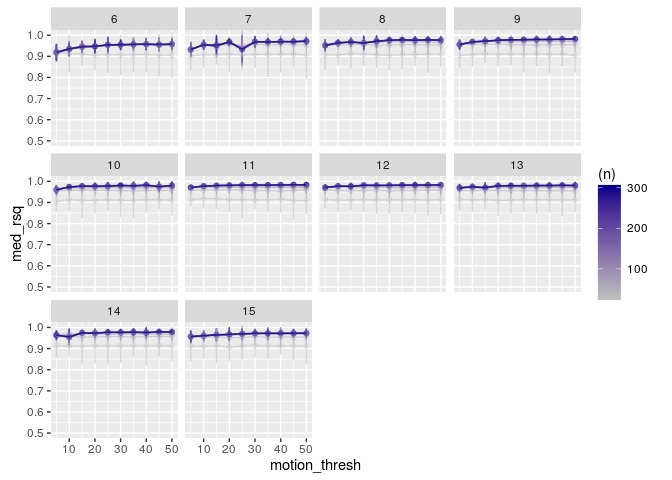
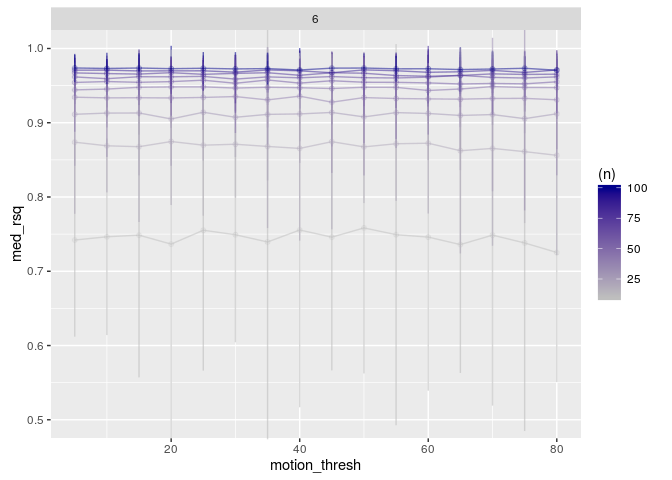
updated

diff --git a/Motion/plot_rsq_rez.md b/Motion/plot_rsq_rez.md
@@ -109,81 +109,84 @@ measure correctly.
 Data checking
 =============
 
-    rsqDF <- read.csv('./RESULTS/SummaryRsqs.csv', stringsAsFactors=F)
+    rsqDF <- read.csv('./RESULTS_bin/SummaryRsqs.csv', stringsAsFactors=F)
 
     head(rsqDF) 
 
     ##   motion_thresh   med_rsq      CI_95   med_icc  CI_95_icc   n age_l age_u
-    ## 1            45 0.9113502 0.14894686 0.9560125 0.06709182  30    13    16
-    ## 2            50 0.9130510 0.11846852 0.9566213 0.05456147  30    13    16
-    ## 3            10 0.9545049 0.07439385 0.9777355 0.03571818 300    14    17
-    ## 4            30 0.9824655 0.02512164 0.9913838 0.01187193 300    11    14
-    ## 5            20 0.9459763 0.05508039 0.9732650 0.02762873 210     6     9
-    ## 6            20 0.9762827 0.02729964 0.9881639 0.01400458 240     9    12
+    ## 1            50 0.8674949 0.15140379 0.9343760 0.07460912  20     6    18
+    ## 2            65 0.9098184 0.14721701 0.9554864 0.06453941  30     6    18
+    ## 3            60 0.9727018 0.03760561 0.9862242 0.01718400 100     6    18
+    ## 4            35 0.9673424 0.05291633 0.9836591 0.02506813  80     6    18
+    ## 5            60 0.9536688 0.07605641 0.9769735 0.03599832  60     6    18
+    ## 6            70 0.9326666 0.07137071 0.9662165 0.03895027  40     6    18
 
     #Check frequencies and distributions
     table(rsqDF$motion_thresh)
 
     ## 
-    ##   5  10  15  20  25  30  35  40  45  50 
-    ## 100 100 100 100 100 100 100 100 100 100
+    ##  5 10 15 20 25 30 35 40 45 50 55 60 65 70 75 80 
+    ## 10 10 10 10 10 10 10 10 10 10 10 10 10 10 10 10
 
     table(rsqDF$n)
 
     ## 
-    ##  30  60  90 120 150 180 210 240 270 300 
-    ## 100 100 100 100 100 100 100 100 100 100
+    ##  10  20  30  40  50  60  70  80  90 100 
+    ##  16  16  16  16  16  16  16  16  16  16
 
     table(rsqDF$age_l-rsqDF$age_u)
 
     ## 
-    ##   -3 
-    ## 1000
+    ## -12 
+    ## 160
 
     table(rsqDF[,c('motion_thresh', 'n')])
 
     ##              n
-    ## motion_thresh 30 60 90 120 150 180 210 240 270 300
-    ##            5  10 10 10  10  10  10  10  10  10  10
-    ##            10 10 10 10  10  10  10  10  10  10  10
-    ##            15 10 10 10  10  10  10  10  10  10  10
-    ##            20 10 10 10  10  10  10  10  10  10  10
-    ##            25 10 10 10  10  10  10  10  10  10  10
-    ##            30 10 10 10  10  10  10  10  10  10  10
-    ##            35 10 10 10  10  10  10  10  10  10  10
-    ##            40 10 10 10  10  10  10  10  10  10  10
-    ##            45 10 10 10  10  10  10  10  10  10  10
-    ##            50 10 10 10  10  10  10  10  10  10  10
+    ## motion_thresh 10 20 30 40 50 60 70 80 90 100
+    ##            5   1  1  1  1  1  1  1  1  1   1
+    ##            10  1  1  1  1  1  1  1  1  1   1
+    ##            15  1  1  1  1  1  1  1  1  1   1
+    ##            20  1  1  1  1  1  1  1  1  1   1
+    ##            25  1  1  1  1  1  1  1  1  1   1
+    ##            30  1  1  1  1  1  1  1  1  1   1
+    ##            35  1  1  1  1  1  1  1  1  1   1
+    ##            40  1  1  1  1  1  1  1  1  1   1
+    ##            45  1  1  1  1  1  1  1  1  1   1
+    ##            50  1  1  1  1  1  1  1  1  1   1
+    ##            55  1  1  1  1  1  1  1  1  1   1
+    ##            60  1  1  1  1  1  1  1  1  1   1
+    ##            65  1  1  1  1  1  1  1  1  1   1
+    ##            70  1  1  1  1  1  1  1  1  1   1
+    ##            75  1  1  1  1  1  1  1  1  1   1
+    ##            80  1  1  1  1  1  1  1  1  1   1
 
     table(rsqDF[,c('age_l', 'n')])
 
     ##      n
-    ## age_l 30 60 90 120 150 180 210 240 270 300
-    ##    6  10 10 10  10  10  10  10  10  10  10
-    ##    7  10 10 10  10  10  10  10  10  10  10
-    ##    8  10 10 10  10  10  10  10  10  10  10
-    ##    9  10 10 10  10  10  10  10  10  10  10
-    ##    10 10 10 10  10  10  10  10  10  10  10
-    ##    11 10 10 10  10  10  10  10  10  10  10
-    ##    12 10 10 10  10  10  10  10  10  10  10
-    ##    13 10 10 10  10  10  10  10  10  10  10
-    ##    14 10 10 10  10  10  10  10  10  10  10
-    ##    15 10 10 10  10  10  10  10  10  10  10
+    ## age_l 10 20 30 40 50 60 70 80 90 100
+    ##     6 16 16 16 16 16 16 16 16 16  16
 
     table(rsqDF[,c('motion_thresh', 'age_l')])
 
     ##              age_l
-    ## motion_thresh  6  7  8  9 10 11 12 13 14 15
-    ##            5  10 10 10 10 10 10 10 10 10 10
-    ##            10 10 10 10 10 10 10 10 10 10 10
-    ##            15 10 10 10 10 10 10 10 10 10 10
-    ##            20 10 10 10 10 10 10 10 10 10 10
-    ##            25 10 10 10 10 10 10 10 10 10 10
-    ##            30 10 10 10 10 10 10 10 10 10 10
-    ##            35 10 10 10 10 10 10 10 10 10 10
-    ##            40 10 10 10 10 10 10 10 10 10 10
-    ##            45 10 10 10 10 10 10 10 10 10 10
-    ##            50 10 10 10 10 10 10 10 10 10 10
+    ## motion_thresh  6
+    ##            5  10
+    ##            10 10
+    ##            15 10
+    ##            20 10
+    ##            25 10
+    ##            30 10
+    ##            35 10
+    ##            40 10
+    ##            45 10
+    ##            50 10
+    ##            55 10
+    ##            60 10
+    ##            65 10
+    ##            70 10
+    ##            75 10
+    ##            80 10
 
     ggplot(rsqDF, aes(x=med_rsq))+geom_histogram(aes(y=..density..))+geom_density()
 
